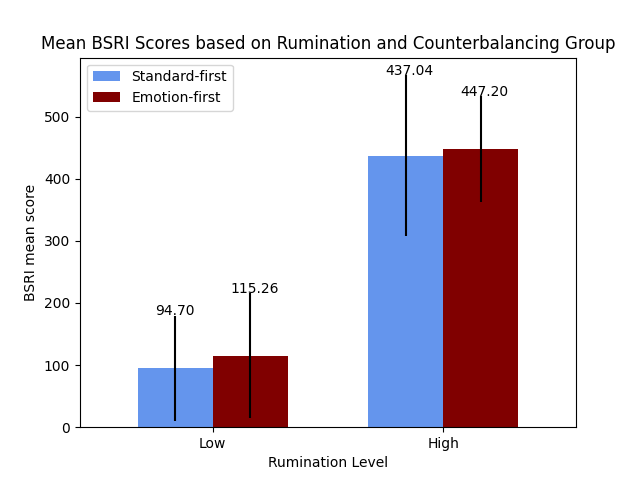
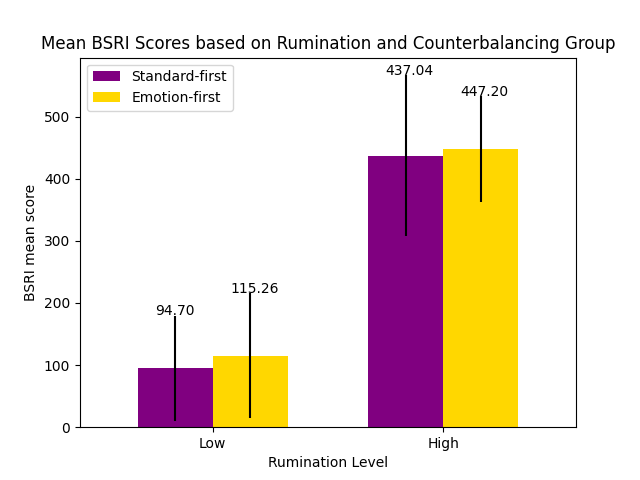
updated graph colours

Changed region(s): [[0.5625, 0.3125, 0.8125, 0.9062], [0.2188, 0.7188, 0.4688, 0.9062], [0.125, 0.125, 0.1875, 0.2188]]

diff --git a/analyze.py b/analyze.py
@@ -84,20 +84,20 @@ sds = [standard_trait_sd, standard_state_sd, emotion_trait_sd, emotion_state_sd]
 
 block_labels = [['Standard', 'RRS'], ['Standard', 'BSRI'], ['Emotional', 'RRS'], ['Emotional', 'BSRI']]
 
+# Uncomment this block to show rt graphs per condition
 # Started with standard Stroop graph
-for block in range(len(means)):
-    mean = means[block]
-    sd = sds[block]
-    block_label = block_labels[block]
-    ax = mean.plot(x='Conditions', y = ['Low Rumination', 'High Rumination'], kind = 'bar', yerr=sd, rot = 0, color=['cornflowerblue', 'maroon'], width=0.65)
-    plt.ylim(bottom=500) # limit y-min to see differences better
-    # add bar values
-    for i, p in enumerate(ax.patches):
-        ax.annotate(str(int(p.get_height())), (p.get_x() * 1.005, p.get_height() + 43))
-    plt.ylabel('Reaction time (ms)')
-    plt.title(f'Reaction Times Starting with {block_label[0]} Stroop ({block_label[1]} groups)')
+# for block in range(len(means)):
+#     mean = means[block]
+#     sd = sds[block]
+#     block_label = block_labels[block]
+#     ax = mean.plot(x='Conditions', y = ['Low Rumination', 'High Rumination'], kind = 'bar', yerr=sd, rot = 0, color=['cornflowerblue', 'maroon'], width=0.65)
+#     plt.ylim(bottom=500) # limit y-min to see differences better
+#     # add bar values
+#     for i, p in enumerate(ax.patches):
+#         ax.annotate(str(int(p.get_height())), (p.get_x() * 1.005, p.get_height() + 43))
+#     plt.ylabel('Reaction time (ms)')
+#     plt.title(f'Reaction Times Starting with {block_label[0]} Stroop ({block_label[1]} groups)')
 
-# Uncomment this line to show graphs
 # plt.show()
 
 ###############################################################################################################
@@ -219,7 +219,7 @@ ax = rrs_df.plot.bar(x='Rumination Level',
                      y= ['standard_first_rrs', 'emotion_first_rrs'],
                      yerr=rrs_df[['standard_first_std', 'emotion_first_std']].T.values,
                      rot = 0,
-                     color=['cornflowerblue', 'maroon'], 
+                     color=['purple', 'gold'], 
                      width=0.65
                      )
 
@@ -230,7 +230,7 @@ leg.get_texts()[0].set_text('Standard-first')
 leg.get_texts()[1].set_text('Emotion-first')
 plt.ylabel('RRS mean score')
 plt.title('Mean RRS Scores based on Rumination and Counterbalancing Group')
-# plt.show()
+plt.show()
 
 # create data frame from data above to plot bsri groups
 bsri_df = pd.DataFrame()
@@ -244,7 +244,7 @@ ax = bsri_df.plot.bar(x='Rumination Level',
                      y= ['standard_first_bsri', 'emotion_first_bsri'],
                      yerr=bsri_df[['standard_first_std', 'emotion_first_std']].T.values,
                      rot = 0,
-                     color=['cornflowerblue', 'maroon'], 
+                     color=['purple', 'gold'], 
                      width=0.65
                      )
 
@@ -255,4 +255,4 @@ leg.get_texts()[0].set_text('Standard-first')
 leg.get_texts()[1].set_text('Emotion-first')
 plt.ylabel('BSRI mean score')
 plt.title('Mean BSRI Scores based on Rumination and Counterbalancing Group')
-# plt.show()
+plt.show()
